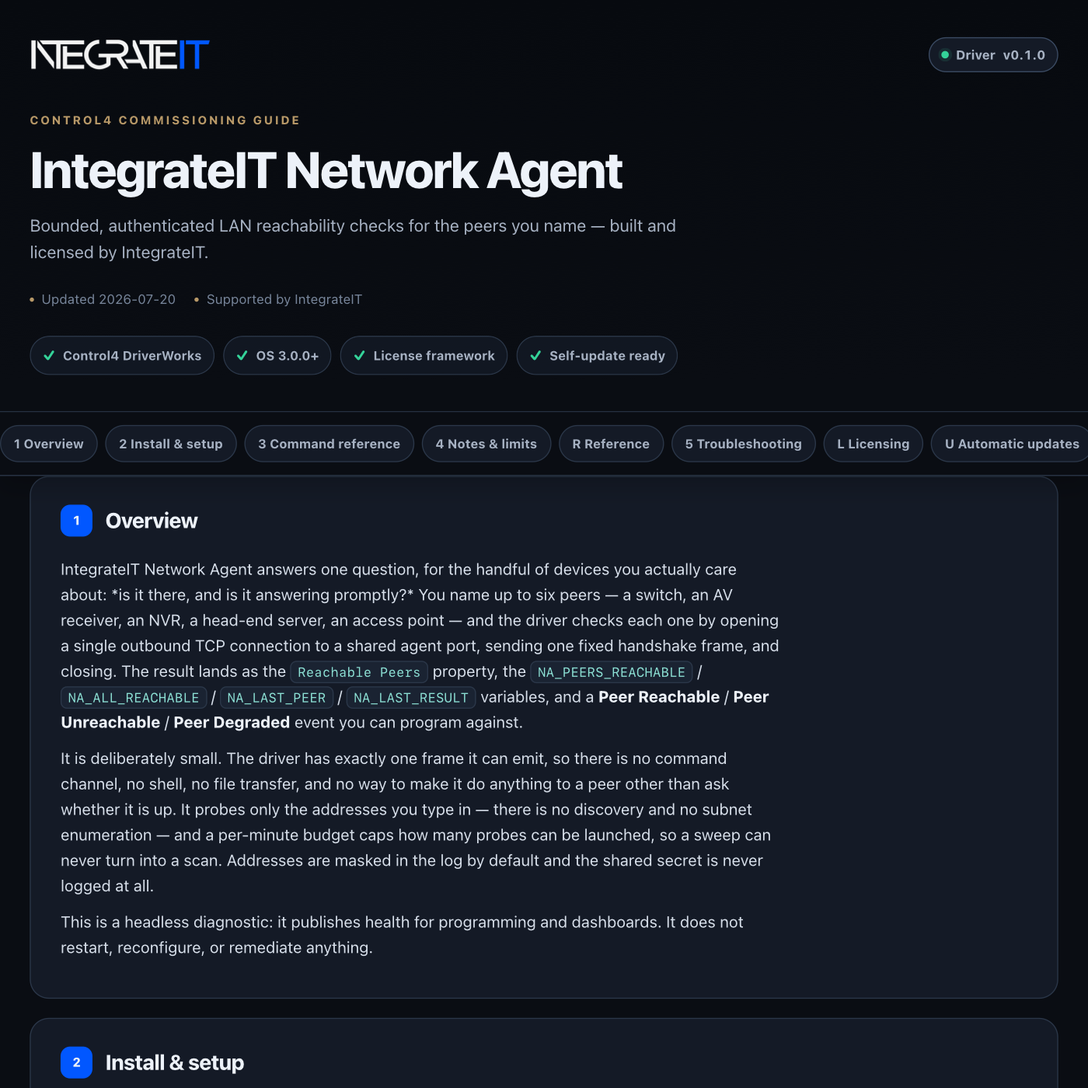
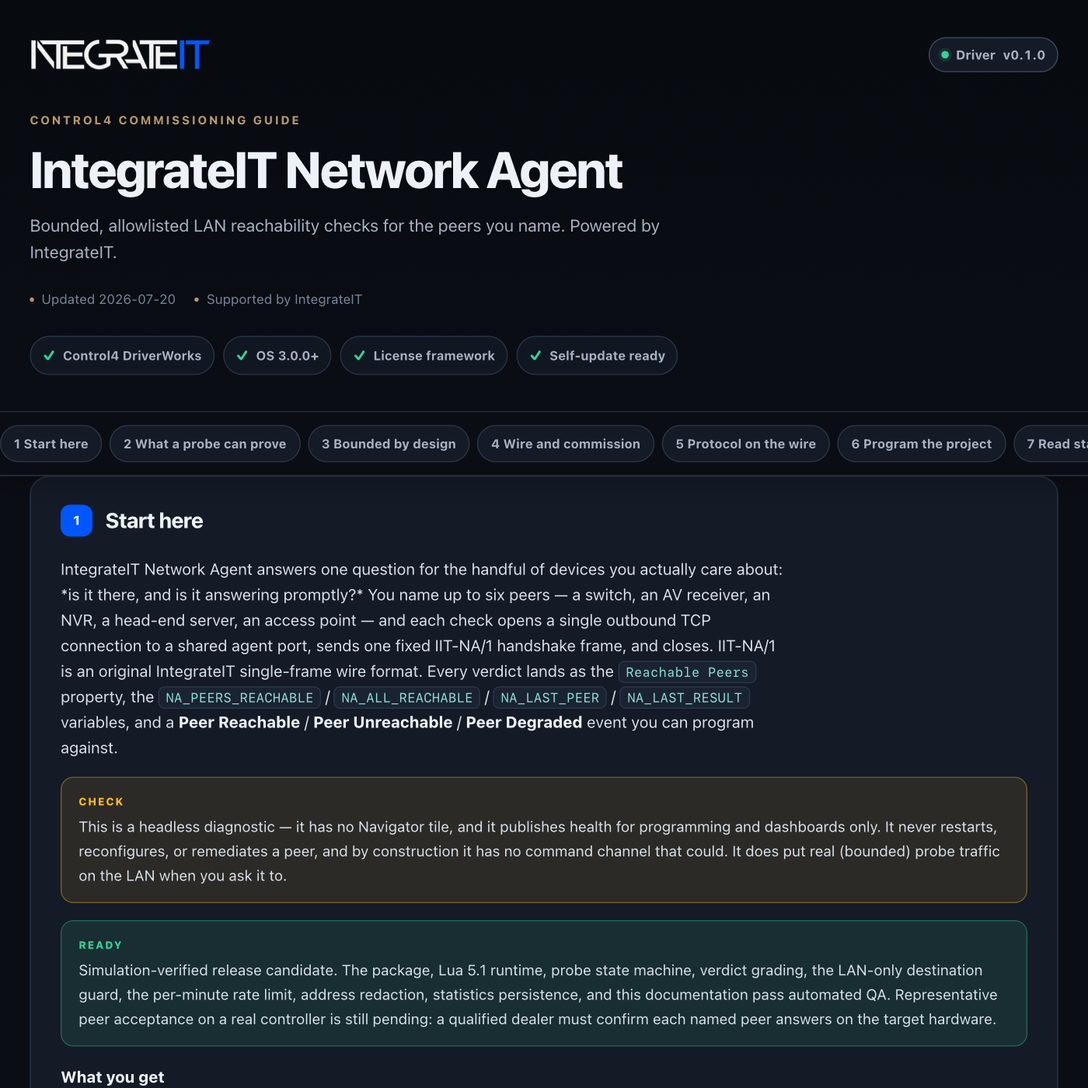
control4: publish driver channel (integrateit_network_agents 0.1.1)

diff --git a/control4/integrateit_network_agents/documentation.html b/control4/integrateit_network_agents/documentation.html
@@ -179,13 +179,13 @@ td code{white-space:normal}
     <div class="wrap">
       <div class="brandbar">
[1 lines of base64/hex data omitted]
-        <span class="version"><span class="word">Driver</span> v0.1.0</span>
+        <span class="version"><span class="word">Driver</span> v0.1.1</span>
       </div>
       <p class="eyebrow">Control4 commissioning guide</p>
       <h1>IntegrateIT Network Agent</h1>
-      <p class="sub">Bounded, authenticated LAN reachability checks for the peers you name — built and licensed by IntegrateIT.</p>
+      <p class="sub">Bounded, allowlisted LAN reachability checks for the peers you name. Powered by IntegrateIT.</p>
       <div class="meta">
-        <span>Updated 2026-07-20</span>
+        <span>Updated 2026-07-26</span>
         <span>Supported by IntegrateIT</span>
       </div>
       <div class="readiness" aria-label="Driver capabilities">
@@ -198,64 +198,143 @@ td code{white-space:normal}
   </header>
 
   <div class="toc-wrap">
-    <nav class="toc wrap" aria-label="Documentation sections"><a href="#overview">1 Overview</a><a href="#install">2 Install &amp; setup</a><a href="#commands">3 Command reference</a><a href="#notes">4 Notes &amp; limits</a><a href="#reference">R Reference</a><a href="#troubleshooting">5 Troubleshooting</a><a href="#licensing">L Licensing</a><a href="#updates">U Automatic updates</a><a href="#changelog">V Version history</a></nav>
+    <nav class="toc wrap" aria-label="Documentation sections"><a href="#overview">1 Start here</a><a href="#reachability">2 What a probe can prove</a><a href="#bounds">3 Bounded by design</a><a href="#setup">4 Wire and commission</a><a href="#protocol">5 Protocol on the wire</a><a href="#programming">6 Program the project</a><a href="#status">7 Read status at a glance</a><a href="#troubleshooting">8 Troubleshoot methodically</a><a href="#trust">9 Ownership, privacy, and licensing</a><a href="#reference">R Reference</a><a href="#licensing">L Licensing</a><a href="#updates">U Automatic updates</a><a href="#changelog">V Version history</a></nav>
   </div>
 
   <main class="wrap">
     <section class="card" id="overview" data-card="overview">
-  <h2><span class="n">1</span> Overview</h2>
-  <p>IntegrateIT Network Agent answers one question, for the handful of devices you actually care about: *is it there, and is it answering promptly?* You name up to six peers — a switch, an AV receiver, an NVR, a head-end server, an access point — and the driver checks each one by opening a single outbound TCP connection to a shared agent port, sending one fixed handshake frame, and closing. The result lands as the <code>Reachable Peers</code> property, the <code>NA_PEERS_REACHABLE</code> / <code>NA_ALL_REACHABLE</code> / <code>NA_LAST_PEER</code> / <code>NA_LAST_RESULT</code> variables, and a <b>Peer Reachable</b> / <b>Peer Unreachable</b> / <b>Peer Degraded</b> event you can program against.</p>
-  <p>It is deliberately small. The driver has exactly one frame it can emit, so there is no command channel, no shell, no file transfer, and no way to make it do anything to a peer other than ask whether it is up. It probes only the addresses you type in — there is no discovery and no subnet enumeration — and a per-minute budget caps how many probes can be launched, so a sweep can never turn into a scan. Addresses are masked in the log by default and the shared secret is never logged at all.</p>
-  <p>This is a headless diagnostic: it publishes health for programming and dashboards. It does not restart, reconfigure, or remediate anything.</p>
+  <h2><span class="n">1</span> Start here</h2>
+  <p>IntegrateIT Network Agent answers one question for the handful of devices you actually care about: *is it there, and is it answering promptly?* You name up to six peers — a switch, an AV receiver, an NVR, a head-end server, an access point — and each check opens a single outbound TCP connection to a shared agent port, sends one fixed IIT-NA/1 handshake frame, and closes. IIT-NA/1 is an original IntegrateIT single-frame wire format. Every verdict lands as the <code>Reachable Peers</code> property, the <code>NA_PEERS_REACHABLE</code> / <code>NA_ALL_REACHABLE</code> / <code>NA_LAST_PEER</code> / <code>NA_LAST_RESULT</code> variables, and a <b>Peer Reachable</b> / <b>Peer Unreachable</b> / <b>Peer Degraded</b> event you can program against.</p>
+  <div class="note warn">This is a headless diagnostic — it has no Navigator tile, and it publishes health for programming and dashboards only. It never restarts, reconfigures, or remediates a peer, and by construction it has no command channel that could. It does put real (bounded) probe traffic on the LAN when you ask it to.</div>
+  <div class="note good">Simulation-verified release candidate. The package, Lua 5.1 runtime, probe state machine, verdict grading, the LAN-only destination guard, the per-minute rate limit, address redaction, statistics persistence, and this documentation pass automated QA. Representative peer acceptance on a real controller is still pending: a qualified dealer must confirm each named peer answers on the target hardware.</div>
+  <p><b>What you get</b></p>
+  <ul>
+    <li>Reachability and responsiveness for 1-6 explicitly allowlisted peers, on demand or on a timer</li>
+    <li>One fixed IIT-NA/1 PING per probe — no command vocabulary, no shell, no discovery, no inbound listener</li>
+    <li>A shared-secret token on every probe; a reply counts only when the protocol tag and the probe sequence both match</li>
+    <li>A LAN-only destination guard with canonical-IPv4 parsing; off-LAN peers are refused unless you opt in</li>
+    <li>A per-minute probe budget with a <b>Probe Rate Limited</b> event, so a sweep can never turn into a scan</li>
+    <li>Redacted address logging by default, and a shared secret that never reaches the log</li>
+    <li><code>NA_</code> variables plus <b>Peer Reachable / Unreachable / Degraded / Rejected</b>, <b>All Peers Reachable</b>, and <b>Probe Sweep Complete</b> events</li>
+    <li>Cumulative probe statistics that survive a controller reboot, clearable from the Actions tab</li>
+  </ul>
 </section>
 
-<section class="card" id="install" data-card="install">
-  <h2><span class="n">2</span> Install &amp; setup</h2>
+<section class="card" id="reachability" data-card="reachability">
+  <h2><span class="n">2</span> What a probe can prove</h2>
+  <p>The driver reports reachability, not health. Every probe settles into one of three verdicts — Reachable, Degraded, Unreachable — one of which carries a connect-only qualifier. Here they are in the order of the evidence behind them:</p>
+  <ul>
+    <li><b>Reachable</b> — the TCP connect succeeded and a matching IIT-NA/1 <code>PONG</code> arrived within the slow threshold.</li>
+    <li><b>Degraded</b> — the connect or the handshake landed, but only after <code>Slow Response Threshold</code>.</li>
+    <li><b>Reachable (connect only)</b> — the host accepted the TCP connection but never spoke IIT-NA/1. That still proves it is up; the driver grades it by how fast the *connect* was, so a slow connect settles as <b>Degraded</b> instead. <code>Last Result</code> spells the qualifier out — <code>&lt;peer&gt;: Reachable (connect only, no IIT-NA/1 reply)</code> — while <code>NA_LAST_RESULT</code> carries the bare verdict.</li>
+    <li><b>Unreachable</b> — nothing connected before <code>Probe Timeout</code>, or the socket dropped before answering.</li>
+  </ul>
+  <p>Three honesty limits ride with those verdicts:</p>
+  <ul>
+    <li>Responsiveness is graded against the threshold, never reported as a millisecond latency figure, because the driver has no monotonic clock accessor — anything claiming a precise latency would be faking it.</li>
+    <li>Verdicts do not survive a reboot. After a controller restart or a driver reload every peer is Unknown and <code>NA_ALL_REACHABLE</code> reads false until the next sweep, so program off the <b>sweep events</b>, not the boot-time variable state. Only the cumulative statistics persist.</li>
+    <li>The driver never invents a verdict. Retarget a peer, change the agent port, or tighten the WAN guard while a probe is in flight and that probe is withdrawn silently — no Unreachable is fabricated for a host it stopped watching. Retargeting a peer or changing the agent port also drops that slot back to Unknown, because the pending verdict was about a different endpoint. Tightening the WAN guard only stops the traffic: the slot keeps the last verdict it earned until you probe again.</li>
+  </ul>
+</section>
+
+<section class="card" id="bounds" data-card="bounds">
+  <h2><span class="n">3</span> Bounded by design</h2>
+  <p>The driver is structurally incapable of doing anything to a peer except asking whether it is there. That is the whole security model, so it is worth stating plainly:</p>
+  <ul>
+    <li><b>Allowlist, not a range.</b> The only probeable targets are the <code>Peer N Address</code> slots inside <code>Number of Peers</code>. There is no discovery and no subnet enumeration. Lowering <code>Number of Peers</code> takes the higher slots out of service immediately, including any probe already in flight on them.</li>
+    <li><b>LAN-only by default.</b> A private-range IPv4 (<code>10/8</code>, <code>172.16-31</code>, <code>192.168/16</code>, <code>169.254/16</code>), a bare hostname, or an mDNS <code>.local</code> name is accepted. A public IPv4, a routable FQDN, a bare-decimal or <code>0x</code> numeric host, and a non-canonical octet like <code>010.0.0.0</code> (a resolver reads the leading zero as octal and would land somewhere public) are refused with a <b>Peer Rejected</b> event and nothing on the wire. Set <code>Allow WAN Peers</code> to <b>Yes</b> only when you genuinely intend to probe off-LAN. That switch relaxes the destination policy, not the address format: an IPv6 literal, a URL, and anything carrying whitespace stay refused with that switch on.</li>
+    <li><b>Rate limited on purpose.</b> <code>Max Probes Per Minute</code> is a hard ceiling. An over-budget probe is refused and raises <b>Probe Rate Limited</b> rather than queueing, so a large sweep degrades into fewer probes instead of a burst. Lowering the ceiling takes effect immediately, not on the next minute.</li>
+    <li><b>Bounded inbound.</b> At most 512 bytes are retained per peer while a reply assembles, and only complete newline-terminated lines are evaluated. A chatty or hostile peer cannot grow driver memory or force a verdict.</li>
+  </ul>
+</section>
+
+<section class="card" id="setup" data-card="setup">
+  <h2><span class="n">4</span> Wire and commission</h2>
   <ol class="steps">
-    <li>Add the driver to a room. It has no Navigator tile — everything happens in Properties, Actions, and Programming.</li>
-    <li>Set <code>Number of Peers</code> to how many hosts you want watched, then fill in <code>Peer N Address</code> for each (a reserved LAN IPv4 like <code>192.168.1.51</code>, or an mDNS name like <code>rack-switch.local</code>). <code>Peer N Label</code> is optional and only affects how the peer reads in status, events, and logs.</li>
-    <li>Set <code>Agent Port</code> to the port every peer is probed on. One port serves all peers, because they all answer the same IIT-NA/1 handshake.</li>
-    <li>Enter a <code>Shared Secret</code> if your peers verify one. The driver sends it base64-encoded in each probe so a peer can tell an authorized probe from stray traffic.</li>
-    <li>Tune the timing: <code>Probe Timeout (s)</code> is how long a probe waits for anything at all, and <code>Slow Response Threshold (s)</code> is the line between Reachable and Degraded. The threshold is clamped below the timeout, so setting it too high yields half the timeout rather than a setting that quietly never fires.</li>
+    <li>Add the driver to the project. There is no Navigator tile — everything happens in Properties, Actions, and Programming.</li>
+    <li>Set <code>Number of Peers</code> to how many hosts you want watched, then fill in <code>Peer N Address</code> for each (a reserved LAN IPv4 like <code>192.168.1.51</code>, or an mDNS name like <code>rack-switch.local</code>). <code>Peer N Label</code> is optional and only changes how the peer is named in <code>Last Result</code>, <code>NA_LAST_PEER</code>, <code>Status</code>, and the log — the events themselves carry no payload.</li>
+    <li>Set <code>Agent Port</code> (default <b>27401</b>) to the port every peer is probed on. One port serves all peers, because they all answer the same IIT-NA/1 handshake.</li>
+    <li>Enter a <code>Shared Secret</code> if your peers verify one. The driver sends it base64-encoded on each probe so a peer can tell an authorized probe from stray traffic.</li>
+    <li>Tune the timing. <code>Probe Timeout (s)</code> is how long a probe waits for anything at all; <code>Slow Response Threshold (s)</code> is the line between Reachable and Degraded. The threshold is clamped below the timeout, so setting it too high yields half the timeout rather than a Degraded verdict that quietly never fires.</li>
     <li>Leave <code>Probe Interval (min)</code> at <b>0</b> for on-demand only (the default — nothing goes on the wire until you ask), or set minutes to sweep automatically.</li>
-    <li>In Programming, react to <b>Peer Unreachable</b> / <b>Peer Degraded</b> to raise an alert, or to <b>All Peers Reachable</b> to clear one. Compare <code>NA_LAST_PEER</code> to know which peer the event was about.</li>
+    <li>Prove it. Run <b>Probe All Peers</b> (or <b>Probe Peer 1</b>) from the Actions tab and watch <code>Reachable Peers</code> and <code>Last Result</code> update and <b>Peer Reachable</b> fire.</li>
   </ol>
-  <p>### The IIT-NA/1 handshake {#protocol}</p>
+  <div class="note">With no <code>Shared Secret</code> the token on the wire is <code>-</code>. A peer that does not implement IIT-NA/1 is still useful: if it accepts the TCP connection, that alone yields a connect-only reachability result on any port it really serves.</div>
+</section>
+
+<section class="card" id="protocol" data-card="protocol">
+  <h2><span class="n">5</span> Protocol on the wire</h2>
   <p>The driver sends one line and reads one line:</p>
   <pre><code>-&gt;  IIT-NA/1 PING &lt;sequence&gt; &lt;token&gt;
 &lt;-  IIT-NA/1 PONG &lt;sequence&gt;</code></pre>
-  <p><code>&lt;token&gt;</code> is the base64 of <code>Shared Secret</code>, or <code>-</code> when no secret is set. A reply counts only when the protocol tag matches <b>and</b> the sequence echoes the probe that is currently in flight, so a late reply from an earlier probe can never settle the current one. Anything else on the socket is ignored.</p>
-  <p>A peer that does not implement IIT-NA/1 is still useful: if it accepts the TCP connection, that alone proves it is up, and the driver reports it <b>Reachable (connect only)</b> when the probe window closes.</p>
+  <p><code>&lt;token&gt;</code> is the base64 of <code>Shared Secret</code>, or <code>-</code> when no secret is set. A reply counts only when the protocol tag matches <b>and</b> the sequence echoes the probe currently in flight, so a late reply from an earlier probe can never settle the current one. Any trailing content after the sequence on the <code>PONG</code> line is ignored, and anything on the socket that is not a <code>PONG</code> for this sequence is ignored. A peer that accepts the connection but never sends a matching <code>PONG</code> is reported <b>Reachable</b> — or <b>Degraded</b>, if the connect itself was slow — with <code>connect only, no IIT-NA/1 reply</code> in <code>Last Result</code> when the probe window closes.</p>
 </section>
 
-<section class="card" id="commands" data-card="commands">
-  <h2><span class="n">3</span> Command reference</h2>
+<section class="card" id="programming" data-card="programming">
+  <h2><span class="n">6</span> Program the project</h2>
   <table>
     <tr><th>Action</th><th>What it does</th></tr>
     <tr><td>Probe Peer 1 … Probe Peer 6</td><td>Probe one peer now. A slot above <code>Number of Peers</code>, or with no address, is a no-op.</td></tr>
-    <tr><td>Probe All Peers</td><td>Probe every configured peer, then raise Probe Sweep Complete (and All Peers Reachable if none failed).</td></tr>
+    <tr><td>Probe All Peers</td><td>Probe every configured peer, then raise <b>Probe Sweep Complete</b> (and <b>All Peers Reachable</b> if none failed).</td></tr>
     <tr><td>Clear Statistics</td><td>Zero the cumulative probe counters.</td></tr>
-    <tr><td>Print Configuration</td><td>Print the peer table, policy, timing, and totals to the Lua output window. The shared secret is reported as *set* / *not set*, never printed.</td></tr>
+    <tr><td>Print Configuration</td><td>Print the peer table, policy, timing, and totals to the Lua output window. The shared secret prints as *set* / *not set*, never in the clear.</td></tr>
   </table>
-  <p><b>Events:</b> *Peer Reachable*, *Peer Unreachable*, *Peer Degraded*, *Peer Rejected*, *Probe Rate Limited*, *All Peers Reachable*, *Probe Sweep Complete*. <b>Variables:</b> <code>NA_PEERS_REACHABLE</code>, <code>NA_PEERS_TOTAL</code>, <code>NA_ALL_REACHABLE</code>, <code>NA_LAST_PEER</code>, <code>NA_LAST_RESULT</code>.</p>
+  <p><b>Events:</b> *Peer Reachable*, *Peer Unreachable*, *Peer Degraded*, *Peer Rejected*, *Probe Rate Limited*, *All Peers Reachable*, *Probe Sweep Complete*.</p>
+  <table>
+    <tr><th>Variable</th><th>Type</th><th>Meaning</th></tr>
+    <tr><td><code>NA_PEERS_REACHABLE</code></td><td>NUMBER</td><td>Reachable peers (Degraded and connect-only included) at the last evaluation</td></tr>
+    <tr><td><code>NA_PEERS_TOTAL</code></td><td>NUMBER</td><td>Configured peer count (<code>Number of Peers</code>)</td></tr>
+    <tr><td><code>NA_ALL_REACHABLE</code></td><td>BOOL</td><td>Every configured peer is reachable</td></tr>
+    <tr><td><code>NA_LAST_PEER</code></td><td>STRING</td><td>Label of the peer the last verdict was about</td></tr>
+    <tr><td><code>NA_LAST_RESULT</code></td><td>STRING</td><td>That verdict: Reachable, Degraded, or Unreachable</td></tr>
+  </table>
+  <p>Three ways these wire into Composer programming:</p>
+  <ul>
+    <li><b>When Peer Unreachable fires and <code>NA_LAST_PEER</code> is "Rack Switch" → push a notification and light a rack alert.</b> Compare <code>NA_LAST_PEER</code> to know which peer the event was about.</li>
+    <li><b>When All Peers Reachable fires → clear that alert.</b> Use the sweep event as the "systems nominal" signal, not <code>NA_ALL_REACHABLE</code> read at boot, which is false until the first sweep completes.</li>
+    <li><b>When Peer Degraded fires → announce that a peer is answering slowly.</b> A degraded link becomes visible before it turns into an Unreachable.</li>
+  </ul>
+  <p>The probe actions live on the driver's Actions tab; this driver publishes no device-specific commands, so Composer programming cannot launch a probe. Programming reacts to the events above, and the only unattended sweep is the one <code>Probe Interval (min)</code> schedules. Under Strict license enforcement an unlicensed controller launches no probes and fires no device events; the default Lenient mode allows commissioning while <code>License Status</code> carries the nag.</p>
 </section>
 
-<section class="card" id="notes" data-card="notes">
-  <h2><span class="n">4</span> Notes &amp; limits</h2>
-  <ul>
-    <li><b>Allowlist, not a range.</b> The only reachable targets are the <code>Peer N Address</code> slots inside <code>Number of Peers</code>. Lowering that number takes the higher slots out of service immediately, including any probe already in flight on them.</li>
-    <li><b>LAN-only by default.</b> A private-range IPv4 (<code>10/8</code>, <code>172.16-31</code>, <code>192.168/16</code>, <code>169.254/16</code>), a bare hostname, or an mDNS <code>.local</code> name is accepted. A public IPv4, a routable FQDN, a bare-decimal or <code>0x</code> numeric host, and any IPv6 literal are refused with a <b>Peer Rejected</b> event and nothing on the wire. Non-canonical octets (<code>010.0.0.0</code>) are refused too, because a resolver would read the leading zero as octal and land somewhere public. Set <code>Allow WAN Peers</code> to <b>Yes</b> only when you genuinely intend to probe off-LAN.</li>
-    <li><b>Rate limited on purpose.</b> <code>Max Probes Per Minute</code> is a hard ceiling. An over-budget probe is refused and raises <b>Probe Rate Limited</b> rather than queueing, so a large sweep degrades into fewer probes instead of a burst. Lowering the ceiling takes effect immediately, not on the next minute.</li>
-    <li><b>Degraded is about latency, Reachable is about existence.</b> A peer that connects fast and answers fast is Reachable; one that connects or answers only after <code>Slow Response Threshold</code> is Degraded; a peer that connects but never speaks the protocol is Reachable on the connect alone. Only a peer that never connects at all is Unreachable. Responsiveness is graded against that threshold rather than reported as a millisecond figure, because the driver has no monotonic clock accessor.</li>
-    <li><b>Retargeting is safe.</b> Editing a <code>Peer N Address</code> while its probe is in flight withdraws the probe silently — no Unreachable event is invented for a host the driver stopped watching. Its verdict resets to Unknown until the next probe.</li>
-    <li><b>Bounded inbound.</b> At most 512 bytes are retained per peer while a reply assembles, and only complete newline-terminated lines are evaluated. A chatty peer cannot grow driver memory or force a verdict.</li>
-    <li><b>Redaction.</b> With <code>Log Address Redaction</code> on <b>Redacted</b> (default), addresses in the log and in <code>Last Probe</code> are masked (<code>192.168.x.x</code>, or the first two characters of a hostname). Switch to <b>Full</b> while commissioning if you need the exact target in the log.</li>
-    <li><b>Statistics persist.</b> The probe / ok / failed / rate-limited totals survive a controller reboot. Use Clear Statistics to reset a baseline.</li>
-    <li><b>No TLS.</b> The probe is plain TCP; the shared secret is base64-framed, not encrypted. Treat it as a tamper hint on a trusted LAN segment, not as a cryptographic credential.</li>
-  </ul>
+<section class="card" id="status" data-card="status">
+  <h2><span class="n">7</span> Read status at a glance</h2>
+  <table>
+    <tr><th>Property / variable</th><th>Healthy result</th><th>What it means, and what to do otherwise</th></tr>
+    <tr><td><code>Reachable Peers</code></td><td><code>N of N</code></td><td>Configured peers reachable at the last evaluation. Reads <code>0 of N</code> after a boot until the first sweep.</td></tr>
+    <tr><td><code>Last Probe</code></td><td>Peer, redacted address:port, timestamp</td><td>The most recent probe launched. Shows the full address only when <code>Log Address Redaction</code> is <code>Full</code>.</td></tr>
+    <tr><td><code>Last Result</code></td><td><code>&lt;peer&gt;: Reachable</code></td><td>The verdict of the most recent probe. <code>None</code> before any probe has run.</td></tr>
+    <tr><td><code>Probe Statistics</code></td><td><code>N probes, N ok, N failed, N rate-limited</code></td><td>Cumulative totals that survive a reboot. <b>Clear Statistics</b> resets the baseline.</td></tr>
+    <tr><td><code>NA_ALL_REACHABLE</code></td><td><code>true</code> after a clean sweep</td><td><code>false</code> at boot and until the next full sweep — key programming off the sweep events, not this variable.</td></tr>
+  </table>
+  <p>Reachable and Degraded both count toward <code>Reachable Peers</code>: a Degraded peer is still up, only slow, and connect-only counts as reachable evidence. Only <b>Unreachable</b> means a host did not answer at all.</p>
+</section>
+
+<section class="card" id="troubleshooting" data-card="troubleshooting">
+  <h2><span class="n">8</span> Troubleshoot methodically</h2>
+  <table>
+    <tr><th>Symptom</th><th>Likely cause</th><th>Fix</th></tr>
+    <tr><td>Every peer reports Unreachable</td><td>Wrong <code>Agent Port</code>, or a firewall between the controller and the peers</td><td>Confirm the port from the controller's segment, e.g. <code>nc -vz &lt;peer&gt; &lt;port&gt;</code>.</td></tr>
+    <tr><td>A peer is always "Reachable (connect only)"</td><td>The host accepts TCP but does not implement IIT-NA/1</td><td>Expected. Point <code>Agent Port</code> at a port an agent serves, or accept connect-only evidence for that peer.</td></tr>
+    <tr><td>A peer flaps between Reachable and Degraded</td><td><code>Slow Response Threshold</code> is close to the peer's real response time</td><td>Raise the threshold, or raise <code>Probe Timeout</code> and re-tune.</td></tr>
+    <tr><td><code>Status</code> says a peer was rejected</td><td>The address failed the LAN-only or format policy</td><td>Read the <code>Status</code> text for the reason; use a dotted LAN IPv4, or set <code>Allow WAN Peers</code> = Yes if off-LAN is intended.</td></tr>
+    <tr><td>Probe Rate Limited keeps firing</td><td>More peers or sweeps than <code>Max Probes Per Minute</code> allows</td><td>Raise the ceiling, lengthen <code>Probe Interval</code>, or watch fewer peers.</td></tr>
+    <tr><td>A slot is ignored entirely</td><td><code>Number of Peers</code> is lower than that slot</td><td>Raise <code>Number of Peers</code> to cover every peer you filled in.</td></tr>
+    <tr><td>Nothing probes on its own</td><td><code>Probe Interval (min)</code> is 0</td><td>That is the default. Set minutes to enable automatic sweeps.</td></tr>
+    <tr><td>A probe produced no verdict and no event</td><td>Its address, agent port, or the WAN guard changed while that probe was in flight</td><td>Expected — the probe was withdrawn, not failed. Re-probe to get a fresh verdict.</td></tr>
+  </table>
+  <div class="note">Turn on <code>Debug Mode</code> → <code>Print</code> to watch each probe, its verdict, and the reason in the Lua output window. Addresses stay redacted there unless <code>Log Address Redaction</code> is <code>Full</code>, and the shared secret is never printed under any setting.</div>
+  <p>If a symptom survives every check above, run <b>Print Configuration</b>, capture the Lua output window, and send it to support@integrateit.tech · (913) 804-7575.</p>
+</section>
+
+<section class="card" id="trust" data-card="trust">
+  <h2><span class="n">9</span> Ownership, privacy, and licensing</h2>
+  <p>This package is original IntegrateIT engineering. IIT-NA/1 is an original single-frame wire format — it is not another vendor's protocol, runtime, source code, brand assets, trial system, or license. Driver engineering, Control4 integration, documentation, QA, licensing, updates, and support are provided by IntegrateIT.</p>
+  <p>No probe result, peer address, peer label, or shared secret ever leaves the LAN, and there is no telemetry: the probe frames go to the peers you named and nowhere else. The driver does make two outbound internet calls of its own, both from the shared IntegrateIT runtime and neither carrying any of the above — license activation to <code>License Server URL</code>, and the update-manifest check that <code>Automatic Update Check</code> schedules. Addresses are masked in the Control4 log and in <code>Last Probe</code> by default (<code>Log Address Redaction</code> = <code>Redacted</code>); switch to <code>Full</code> only while commissioning when you need the exact target in the log. The <code>Shared Secret</code> is carried base64-encoded on the wire and is never written to the log, never read back into a property, and never printed by Print Configuration. Base64 is framing, not encryption: the probe is plain TCP with no TLS, so treat the secret as an authorization hint on a trusted LAN segment, not a cryptographic credential.</p>
+  <p>The shared IntegrateIT license and update services use the controller identity, driver slug, version, configured license key, and update channel as documented in the reference below. Lenient mode allows commissioning without an activated key and keeps <code>License Status</code> visible. Strict mode blocks all probing until the Ops Portal has minted and validated a key for that controller. Installing this package does not itself mint or activate a controller license.</p>
 <section class="card" id="reference" data-card="reference">
   <h2><span class="n">R</span> Reference</h2>
-  <p>Generated from the driver manifest at build time — always matches this build (v0.1.0).</p>
+  <p>Generated from the driver manifest at build time — always matches this build (v0.1.1).</p>
   <h3>Properties</h3>
   <table>
     <tr><th>Property</th><th>Type</th><th>Default</th><th>Description</th></tr>
@@ -331,21 +410,6 @@ td code{white-space:normal}
   </table>
 </section>
 </section>
-
-<section class="card" id="troubleshooting" data-card="troubleshooting">
-  <h2><span class="n">5</span> Troubleshooting</h2>
-  <table>
-    <tr><th>Symptom</th><th>Likely cause</th><th>Fix</th></tr>
-    <tr><td>Every peer reports Unreachable</td><td>Wrong <code>Agent Port</code>, or a firewall between the controller and the peers</td><td>Confirm the port from the controller's segment, e.g. <code>nc -vz &lt;peer&gt; &lt;port&gt;</code>.</td></tr>
-    <tr><td>A peer is always "Reachable (connect only)"</td><td>The host accepts TCP but does not implement IIT-NA/1</td><td>Expected. Point <code>Agent Port</code> at a port the peer really serves, or accept connect-only evidence for that peer.</td></tr>
-    <tr><td>A peer flaps between Reachable and Degraded</td><td><code>Slow Response Threshold</code> is close to the peer's real response time</td><td>Raise the threshold, or raise <code>Probe Timeout</code> and re-tune.</td></tr>
-    <tr><td><code>Status</code> says a peer was rejected</td><td>The address failed the LAN-only or format policy</td><td>Read the <code>Status</code> text for the reason; use a dotted LAN IPv4, or set <code>Allow WAN Peers</code> = Yes if off-LAN is intended.</td></tr>
-    <tr><td>Probe Rate Limited keeps firing</td><td>More peers or sweeps than <code>Max Probes Per Minute</code> allows</td><td>Raise the ceiling, lengthen <code>Probe Interval</code>, or watch fewer peers.</td></tr>
-    <tr><td>A slot is ignored entirely</td><td><code>Number of Peers</code> is lower than that slot</td><td>Raise <code>Number of Peers</code> to cover every peer you filled in.</td></tr>
-    <tr><td>Nothing probes on its own</td><td><code>Probe Interval (min)</code> is 0</td><td>That is the default. Set minutes to enable automatic sweeps.</td></tr>
-  </table>
-  <div class="note">Turn on <code>Debug Mode → Print</code> to watch each probe, the verdict, and the reason in the Lua output window. Addresses stay redacted there unless <code>Log Address Redaction</code> is set to Full, and the shared secret is never printed under any setting.</div>
-</section>
 <section class="card" id="licensing" data-card="licensing">
   <h2><span class="n">L</span> Licensing</h2>
   <p>This driver is licensed <b>per controller</b>. Each license key locks to one controller's
@@ -393,7 +457,9 @@ td code{white-space:normal}
     <section class="card" id="changelog" data-card="changelog">
   <h2><span class="n">V</span> Version history</h2>
   <div class="chg">
-    <div class="rel"><b>v0.1.0</b> <span class="pill green">current</span><span class="d">2026-07-20</span>
+    <div class="rel"><b>v0.1.1</b> <span class="pill green">current</span><span class="d">2026-07-26</span>
+      <ul><li>Documentation rebuilt to the IntegrateIT commissioning-guide standard: uniform sections, honest contracts, verified claim-by-claim against the code.</li></ul></div>
+    <div class="rel"><b>v0.1.0</b><span class="d">2026-07-20</span>
       <ul><li>First cut: bounded LAN reachability diagnostics for 1-6 explicitly allowlisted peers.</li><li>IIT-NA/1, an original single-frame probe protocol — the driver can only ever emit PING, so there is no remote command channel, shell, or discovery path.</li><li>Authenticated probes: a base64 shared-secret token on every frame, and a reply is accepted only when the protocol tag and the in-flight probe sequence both match.</li><li>LAN-only destination guard with canonical-IPv4 parsing (non-canonical octets, numeric hosts, routable FQDNs, and IPv6 refused), overridable per-install by Allow WAN Peers.</li><li>Per-minute probe budget with a Probe Rate Limited event; a bounded 512-byte inbound buffer; redacted address logging by default and a shared secret that never reaches the log.</li><li>Verdicts: Reachable, Degraded (answered past the slow threshold), Reachable-connect-only (host accepts TCP but does not speak IIT-NA/1), Unreachable. Sweeps raise Probe Sweep Complete and All Peers Reachable.</li><li>Cumulative probe statistics persisted across controller reboots, resettable from the Actions tab.</li><li>Release Candidate, simulation-verified. Representative peer acceptance on a controller is still pending.</li><li>A settling probe closes its own socket, and the controller reports that close as OFFLINE a moment later. That OFFLINE was landing on the NEXT probe and settling a perfectly reachable peer as Unreachable — a false negative on every second consecutive probe, with no peer involvement at all. The driver now owns the close it asked for and refuses to read it as evidence; a genuine drop still settles immediately.</li><li>Changing the Agent Port while a probe was in flight left the old probe running and filed its timeout verdict against the new port. It is now withdrawn, like an address change already was.</li><li>Switching Allow WAN Peers back to No left an already-launched off-LAN probe on the wire until its timeout. The destination guard now bites the moment it is switched on.</li><li>An mDNS name typed in mixed or upper case ("Rack-Switch.LOCAL") was refused as a routable internet host. DNS labels are case-insensitive and the suffix test now is too.</li><li>Documented two real limitations that were missing: verdicts (unlike the statistics) do not survive a reboot, and a mid-probe reconfiguration withdraws the probe without a verdict.</li></ul></div>
   </div>
 </section>

diff --git a/control4/integrateit_network_agents/CHANGELOG.md b/control4/integrateit_network_agents/CHANGELOG.md
@@ -1,5 +1,8 @@
 # Changelog — IntegrateIT Network Agent
 
+## [0.1.1] - 2026-07-26
+- Documentation rebuilt to the IntegrateIT commissioning-guide standard: uniform sections, honest contracts, verified claim-by-claim against the code.
+
 ## [0.1.0] - 2026-07-20
 - First cut: bounded LAN reachability diagnostics for 1-6 explicitly allowlisted peers.
 - IIT-NA/1, an original single-frame probe protocol — the driver can only ever emit PING, so there is no remote command channel, shell, or discovery path.
